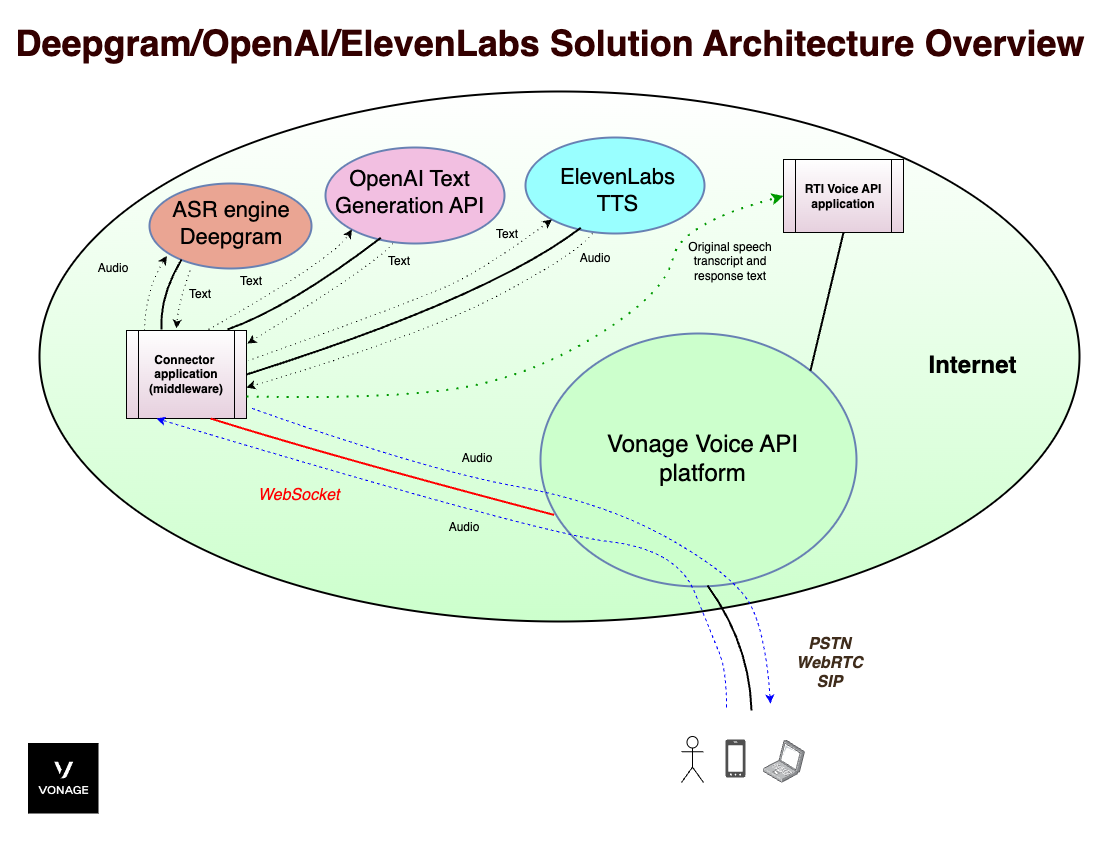
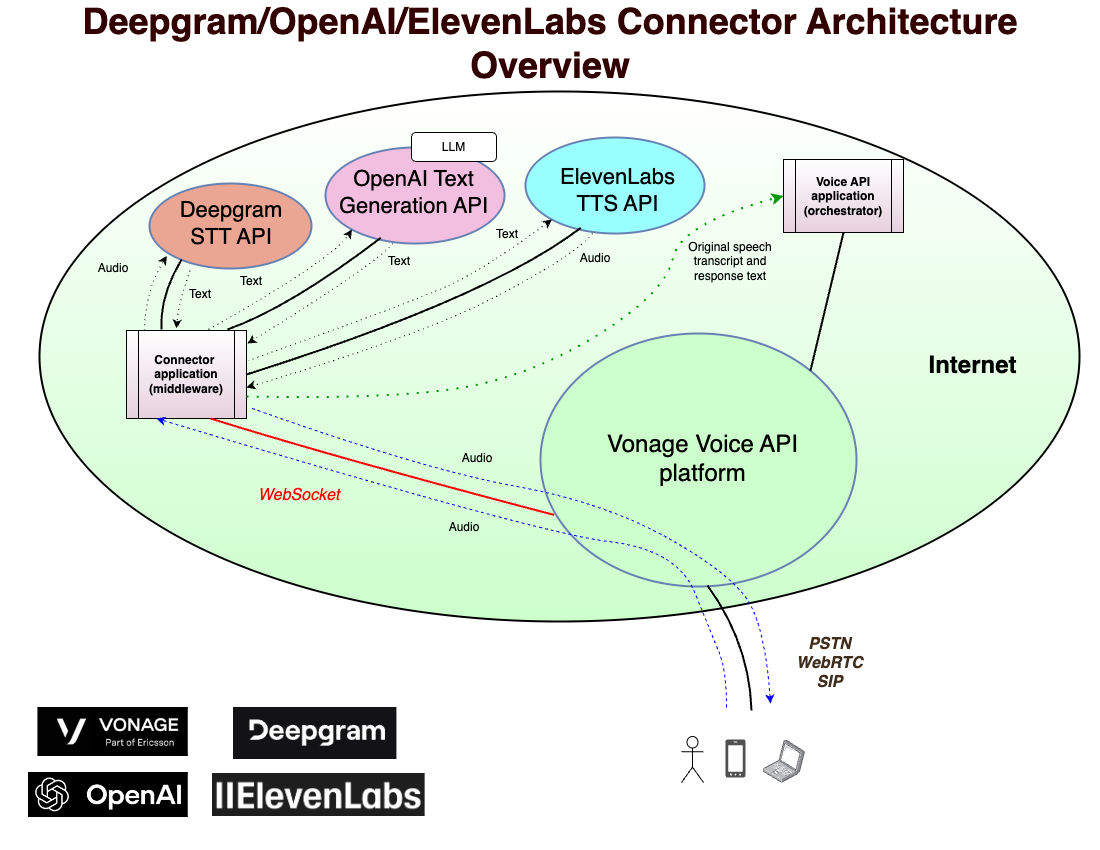
diagram

diff --git a/README.md b/README.md
@@ -1,1 +1,150 @@
-README to be created
+# Interacting via Voice with an OpenAI LLM using Deepgram ASR and ElevenLabs TTS
+
+## What this Connector application does
+
+This Connector application allows [Voice](https://www.vonage.com/communications-apis/voice/) or [Video](https://www.vonage.com/communications-apis/video/) calls to interact via voice with a text-based [OpenAI LLM](https://platform.openai.com/docs/guides/text?api-mode=chat) using [Deepgram STT](https://deepgram.com/product/speech-to-text) and [ElevenLabs TTS](https://elevenlabs.io/text-to-speech).
+
+A User interacts with the OpenAI LLM (aka Agent) using voice. Real-time transcripts of what the User says as well what the Agent says are also returned.
+
+Barge-in is supported, meaning if User resumes speaking, an Agent voice response in progress would be immediately interrupted, and the response to the new request is played.
+
+Vonage API platform supports different **voice channels** for connecting to the Agent, including:
+- Public Switched Telephone Network (**PSTN**), e.g. cell phones, landline phones, VoIP phones/applications connecting via PSTN,
+- Session Initiation Protocol (**SIP**), e.g. SIP trunking, SIP from Contact Center, [SIP Interconnect](https://tokbox.com/developer/guides/sip) from Vonage Video API clients,
+- Vonage **Voice WebRTC clients** (Web, iOS, Android),
+- Vonage **Video WebRTC clients** (Web, iOS, Android),
+- **WebSocket** connections, e.g. from Contact Centers, augmenting existing Voice applications.
+
+## How this Connector application works
+
+See the diagram **_dg-oai-11l-architecture-overview.png_**.</br>
+
+In this diagram, the Connector application is shown on the left side of the diagram.</br>
+
+First, a call is established with the User, it can be an inbound call or an outbound call,</br>
+then a WebSocket leg is established with the Connector (part 1) which sends the audio from the User to Deepgram Voice Agent (DG VA).</br>
+
+Received audio from DG VA are sent to the User.
+
+Received User and Agent transcriptions are sent to the Orchestrator (part 2).</br>
+
+
+## Set up
+
+You may choose to deploy locally on your computer for testing, then or directly, in a cloud hosted environment as explained as follows.
+
+### Local deployment on your computer
+
+#### Node.js
+
+[Download and install Node.js](https://nodejs.org/en/download/package-manager) version 18.
+
+This Node.js application has been tested with Node.js version 18.19.1.
+
+#### Ngrok
+
+[Download and install ngrok](https://ngrok.com/download), an Internet tunelling service.</br>
+Sign in or sign up with [ngrok](https://ngrok.com/), from the menu, follow the **Setup and Installation** guide.
+
+Set up a domain to forward to the local port 8000 (as this application will be listening on local port 8000).
+
+Start ngrok to listen on port 8000,</br>
+please take note of the ngrok **Enpoint URL** as it will be need in the next sections,
+that URL looks like:</br>
+`https://xxxxxxxx.ngrok.io`
+
+#### Deepgram
+
+Sign in or sign up with [Deepgram](https://deepgram.com/).
+
+Create or use an existing project, then create or retrieve an existing API key.
+
+For the next steps, you will need:</br>
+- The Deegpram **API key** (as environment variable **`DEEPGRAM_API_KEY`**)</br>
+
+#### Vonage API Account - Voice API Application
+
+[Log in to your](https://ui.idp.vonage.com/ui/auth/login) or [sign up for a](https://ui.idp.vonage.com/ui/auth/registration) Vonage API account.
+
+Go to [Your applications](https://dashboard.nexmo.com/applications), access an existing application or [+ Create a new application](https://dashboard.nexmo.com/applications/new).
+
+Under Capabilities section (click on [Edit] if you do not see this section):
+
+Enable Voice</br>
+
+- Under Answer URL, leave HTTP GET, and enter</br>
+`https://<host>:<port>/answer`</br>
+(replace \<host\> and \<port\> with the public host name and if necessary public port of the server where this sample application is running)</br>
+
+- Under Event URL, **select** HTTP POST, and enter</br>
+`https://<host>:<port>/event`</br>
+(replace \<host\> and \<port\> with the public host name and if necessary public port of the server where this sample application is running)</br>
+
+Note: If you are using ngrok for this sample application, the Answer URL and Event URL look like:</br>
+`https://xxxxxxxx.ngrok.io/answer`</br>
+`https://xxxxxxxx.ngrok.io/event`</br> 
+
+- Under Region, select a region, please take note of your selection,	
+
+- Click on [Generate public and private key] if you did not yet create or want new ones, save the private key file in this application folder as .private.key (leading dot in the file name).</br>
+
+**IMPORTANT**: Do not forget to click on [Save changes] at the bottom of the screen if you have created a new key set.</br>
+
+- Link a phone number to this application if none has been linked to the application.
+
+For the next steps, you will need:</br>
+- The [account API key](https://dashboard.nexmo.com/settings) (as environment variable **`API_KEY`**)</br>
+- The [account API secret](https://dashboard.nexmo.com/settings), not signature secret, (as environment variable **`API_SECRET`**)</br>
+- The **`application ID`** (as environment variable **`APP_ID`**),</br>
+- The selected **`Region`** (as environment variable **`API_REGION`**),</br>
+- The **`phone number linked`** to your application (as environment variable **`SERVICE_PHONE_NUMBER`**).</br>
+
+Copy or rename .env-example to .env<br>
+
+Update all the parameters in .env file as per previous sections contents.<br>
+
+Install node modules with the command:<br>
+ ```bash
+npm install
+```
+
+Launch the application:<br>
+```bash
+node vonage-deepgram-voice-agent.cjs
+```
+Default local (not public!) of this application listening `port` is: 8000.
+
+Make sure ngrok is running as per previous section.
+
+
+### Hosted deployment on Vonage Cloud Runtime
+
+You may deploy on Vonage's serverless infrastructure [Vonage Cloud Runtime](https://developer.vonage.com/en/vonage-cloud-runtime/overview).
+
+WIP - Instructions will be added here in a few days. Sorry for the delay.
+
+
+## How to test this application
+
+### Inbound PSTN call
+
+Call the phone number linked to your Vonage API account.
+
+### Outbound PSTN call
+
+You may trigger an outbound call by opening the following web address<br>
+`https://<public_host_name>/call?callee=<callee_phone_number>`<br>
+
+for example:<br>
+`https://xxxxxxxx.ngrok.io/call?callee=12995550101`<br>
+or<br>
+`https://myserver.mycompany.com:32000/call?callee=12995550101`<br>
+
+
+## Live demo
+
+You may test call a demo instance of this application running on [Vonage Cloud Runtime](https://developer.vonage.com/en/vonage-cloud-runtime/overview) by calling<br> +1 **201-365-7974**.
+
+
+
+
